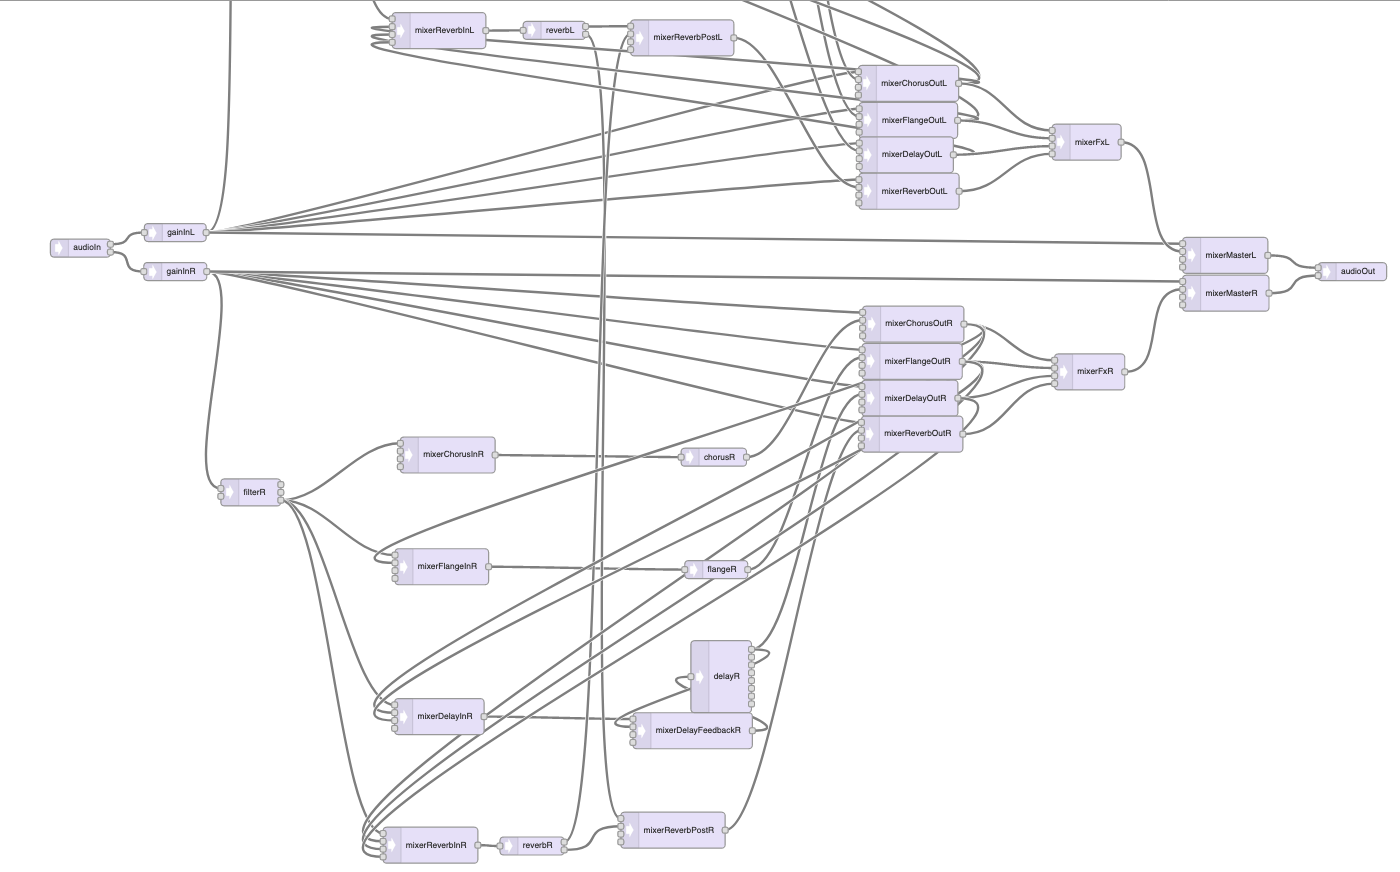
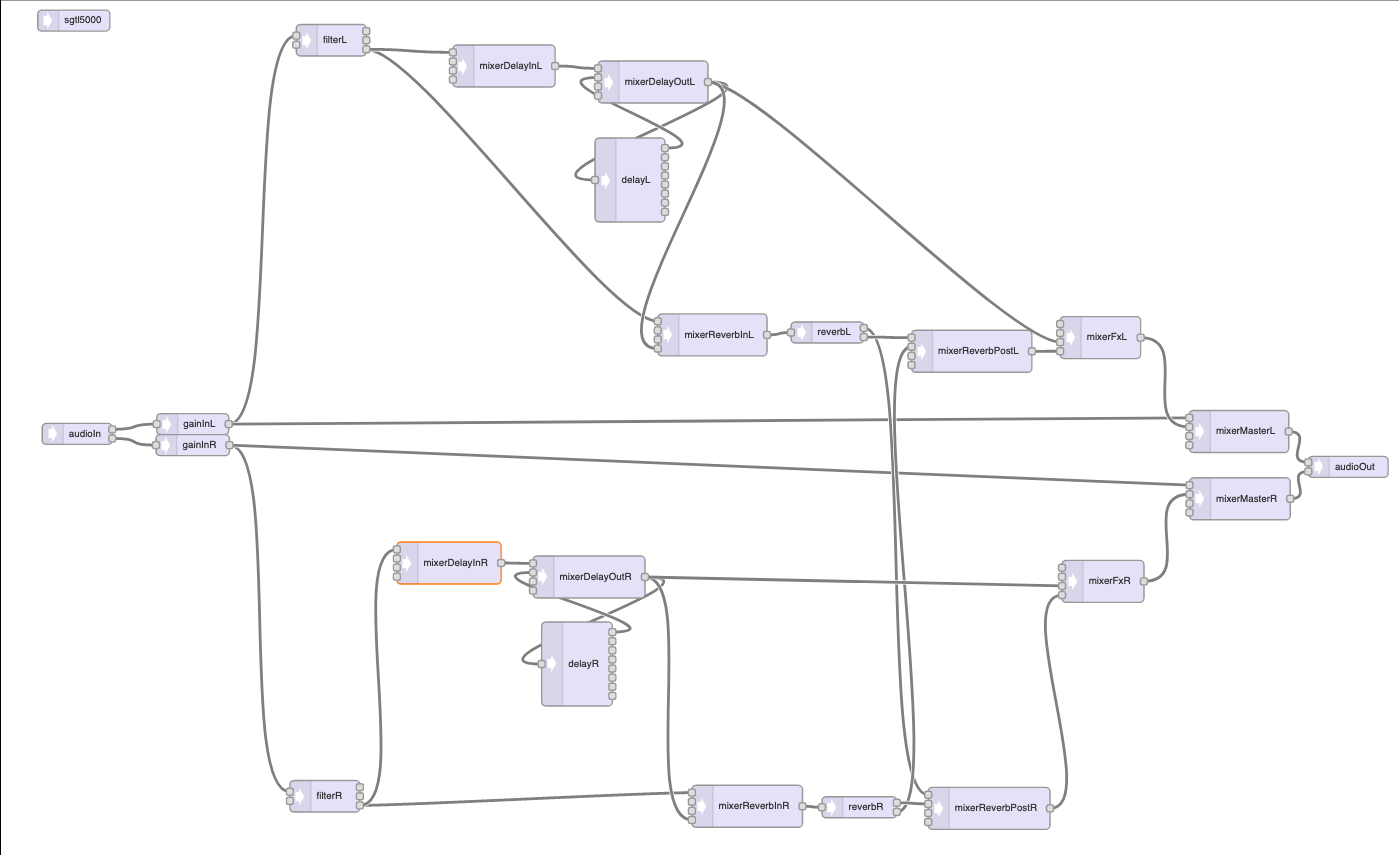
Add delay to AudioSystem

diff --git a/AudioSystem.h b/AudioSystem.h
@@ -8,50 +8,63 @@
 #include <SerialFlash.h>
 
 // GUItool: begin automatically generated code
-AudioInputI2S            audioIn;           //xy=106,327
-AudioAmplifier           gainInL;           //xy=271,313
-AudioAmplifier           gainInR;           //xy=271,343
-AudioFilterStateVariable filterR;        //xy=437,729
-AudioFilterStateVariable filterL;        //xy=469,56
-AudioMixer4              mixerReverbInR;         //xy=616.0000076293945,759.6666641235352
-AudioMixer4              mixerReverbInL;         //xy=644.0000076293945,85.66666412353516
-AudioEffectFreeverbStereo reverbR;     //xy=802.3333053588867,759.6666679382324
-AudioEffectFreeverbStereo reverbL;     //xy=832.3333053588867,85.66666793823242
-AudioMixer4              mixerReverbPostR;         //xy=1003.3333053588867,772.6666641235352
-AudioMixer4              mixerReverbPostL;         //xy=1031.3333053588867,99.66666412353516
-AudioMixer4              mixerReverbOutR;         //xy=1295.3333053588867,483.66666412353516
-AudioMixer4              mixerReverbOutL;         //xy=1303.3333053588867,189.66666412353516
-AudioMixer4              mixerFxR;         //xy=1490.333251953125,462.3333320617676
-AudioMixer4              mixerFxL;         //xy=1492.333251953125,168.33333206176758
-AudioMixer4              mixerMasterR;        //xy=1697.9999237060547,374.33333587646484
-AudioMixer4              mixerMasterL;         //xy=1700.9999237060547,265.33333587646484
-AudioOutputI2S           audioOut;           //xy=1886,317
+AudioInputI2S            audioIn;        //xy=108.85714721679688,618.4285888671875
+AudioAmplifier           gainInL;        //xy=273.8571472167969,604.4285888671875
+AudioAmplifier           gainInR;        //xy=273.8571472167969,634.4285888671875
+AudioFilterStateVariable filterR;        //xy=462.71435546875,1136.142822265625
+AudioFilterStateVariable filterL;        //xy=471.85711669921875,56.00001525878906
+AudioMixer4              mixerDelayInR;         //xy=640,802.8571166992188
+AudioMixer4              mixerDelayInL;         //xy=718.5712890625,92.85714721679688
+AudioEffectDelay         delayR;         //xy=822.8569946289062,947.1427612304688
+AudioMixer4              mixerDelayOutR;         //xy=839.9998168945312,822.8569946289062
+AudioEffectDelay         delayL;         //xy=898.5714111328125,255.71429443359375
+AudioMixer4              mixerDelayOutL;         //xy=931.4284057617188,115.71427917480469
+AudioMixer4              mixerReverbInL; //xy=1016.2860107421875,477.00006103515625
+AudioMixer4              mixerReverbInR; //xy=1066.0001220703125,1150.4285888671875
+AudioEffectFreeverbStereo reverbL;        //xy=1180.5714111328125,473.5715026855469
+AudioEffectFreeverbStereo reverbR;        //xy=1226.2857666015625,1151.857177734375
+AudioMixer4              mixerReverbPostL; //xy=1386.714599609375,500.4286193847656
+AudioMixer4              mixerReverbPostR; //xy=1411.5712890625,1153.428466796875
+AudioMixer4              mixerFxL;       //xy=1570.57177734375,480.8572082519531
+AudioMixer4              mixerFxR;       //xy=1574.2857666015625,829.1427001953125
+AudioMixer4              mixerMasterL;   //xy=1768.5716552734375,615.0000610351562
+AudioMixer4              mixerMasterR;   //xy=1769.857421875,711.1427612304688
+AudioOutputI2S           audioOut;       //xy=1924.571533203125,665.5714721679688
 AudioConnection          patchCord1(audioIn, 0, gainInL, 0);
 AudioConnection          patchCord2(audioIn, 1, gainInR, 0);
 AudioConnection          patchCord3(gainInL, 0, filterL, 0);
-AudioConnection          patchCord4(gainInL, 0, mixerReverbOutL, 0);
-AudioConnection          patchCord5(gainInL, 0, mixerMasterL, 0);
-AudioConnection          patchCord6(gainInR, 0, filterR, 0);
-AudioConnection          patchCord7(gainInR, 0, mixerReverbOutR, 0);
-AudioConnection          patchCord8(gainInR, 0, mixerMasterR, 0);
-AudioConnection          patchCord9(filterR, 2, mixerReverbInR, 0);
-AudioConnection          patchCord10(filterL, 2, mixerReverbInL, 0);
-AudioConnection          patchCord11(mixerReverbInR, reverbR);
-AudioConnection          patchCord12(mixerReverbInL, reverbL);
-AudioConnection          patchCord13(reverbR, 0, mixerReverbPostL, 1);
-AudioConnection          patchCord14(reverbR, 1, mixerReverbPostR, 1);
-AudioConnection          patchCord15(reverbL, 0, mixerReverbPostL, 0);
-AudioConnection          patchCord16(reverbL, 1, mixerReverbPostR, 0);
-AudioConnection          patchCord17(mixerReverbPostR, 0, mixerReverbOutR, 1);
-AudioConnection          patchCord18(mixerReverbPostL, 0, mixerReverbOutL, 1);
-AudioConnection          patchCord19(mixerReverbOutR, 0, mixerFxR, 3);
-AudioConnection          patchCord20(mixerReverbOutL, 0, mixerFxL, 3);
-AudioConnection          patchCord21(mixerFxR, 0, mixerMasterR, 1);
-AudioConnection          patchCord22(mixerFxL, 0, mixerMasterL, 1);
-AudioConnection          patchCord23(mixerMasterR, 0, audioOut, 1);
-AudioConnection          patchCord24(mixerMasterL, 0, audioOut, 0);
-AudioControlSGTL5000     sgtl5000;     //xy=104,28
+AudioConnection          patchCord4(gainInL, 0, mixerMasterL, 0);
+AudioConnection          patchCord5(gainInR, 0, filterR, 0);
+AudioConnection          patchCord6(gainInR, 0, mixerMasterR, 0);
+AudioConnection          patchCord7(filterR, 2, mixerReverbInR, 0);
+AudioConnection          patchCord8(filterR, 2, mixerDelayInR, 0);
+AudioConnection          patchCord9(filterL, 2, mixerReverbInL, 0);
+AudioConnection          patchCord10(filterL, 2, mixerDelayInL, 0);
+AudioConnection          patchCord11(mixerDelayInR, 0, mixerDelayOutR, 0);
+AudioConnection          patchCord12(mixerDelayInL, 0, mixerDelayOutL, 0);
+AudioConnection          patchCord13(delayR, 0, mixerDelayOutR, 1);
+AudioConnection          patchCord14(mixerDelayOutR, delayR);
+AudioConnection          patchCord15(mixerDelayOutR, 0, mixerReverbInR, 3);
+AudioConnection          patchCord16(mixerDelayOutR, 0, mixerFxR, 2);
+AudioConnection          patchCord17(delayL, 0, mixerDelayOutL, 1);
+AudioConnection          patchCord18(mixerDelayOutL, delayL);
+AudioConnection          patchCord19(mixerDelayOutL, 0, mixerFxL, 2);
+AudioConnection          patchCord20(mixerDelayOutL, 0, mixerReverbInL, 3);
+AudioConnection          patchCord21(mixerReverbInL, reverbL);
+AudioConnection          patchCord22(mixerReverbInR, reverbR);
+AudioConnection          patchCord23(reverbL, 0, mixerReverbPostR, 0);
+AudioConnection          patchCord24(reverbL, 1, mixerReverbPostL, 0);
+AudioConnection          patchCord25(reverbR, 0, mixerReverbPostR, 1);
+AudioConnection          patchCord26(reverbR, 1, mixerReverbPostL, 1);
+AudioConnection          patchCord27(mixerReverbPostL, 0, mixerFxL, 3);
+AudioConnection          patchCord28(mixerReverbPostR, 0, mixerFxR, 3);
+AudioConnection          patchCord29(mixerFxL, 0, mixerMasterL, 1);
+AudioConnection          patchCord30(mixerFxR, 0, mixerMasterR, 1);
+AudioConnection          patchCord31(mixerMasterL, 0, audioOut, 0);
+AudioConnection          patchCord32(mixerMasterR, 0, audioOut, 1);
+AudioControlSGTL5000     sgtl5000;       //xy=104,28
 // GUItool: end automatically generated code
+
 
 
 #endif //MULTIFX_AUDIOSYSTEM_H
